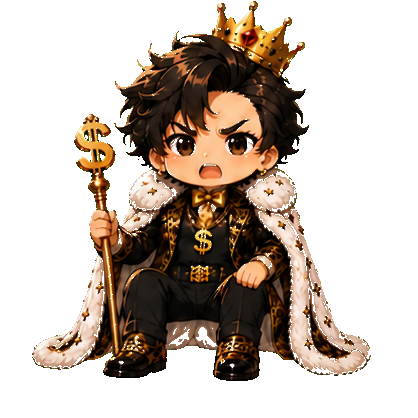
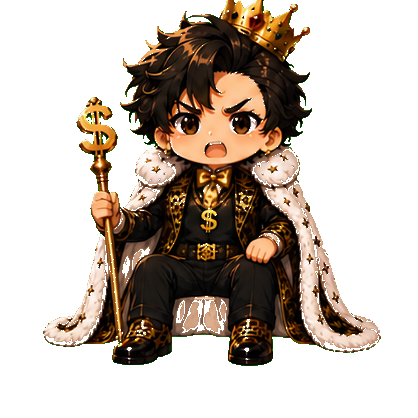
fix: refine daifugo throne presentation

diff --git a/artifacts/inmu-bank/src/pages/pet-page.tsx b/artifacts/inmu-bank/src/pages/pet-page.tsx
@@ -351,7 +351,9 @@ function PetRoom({
   return (
     <section className="relative h-[570px] overflow-hidden rounded-lg border border-fuchsia-400/25 bg-[#080611] shadow-[0_0_46px_rgba(168,85,247,.16)] sm:h-[650px]">
       <div className="absolute inset-0 bg-[linear-gradient(180deg,#100b20_0%,#171026_55%,#0b0811_100%)]" />
-      <div className="absolute inset-x-[7%] top-0 h-[61%] border-x border-violet-300/5 opacity-80 [background-image:linear-gradient(rgba(255,255,255,.025)_1px,transparent_1px),linear-gradient(90deg,rgba(255,255,255,.02)_1px,transparent_1px)] [background-size:42px_42px]" />
+      {roomTheme !== 'royal' && (
+        <div className="absolute inset-x-[7%] top-0 h-[61%] border-x border-violet-300/5 opacity-80 [background-image:linear-gradient(rgba(255,255,255,.025)_1px,transparent_1px),linear-gradient(90deg,rgba(255,255,255,.02)_1px,transparent_1px)] [background-size:42px_42px]" />
+      )}
       <div className="absolute bottom-[39%] left-0 top-0 w-[8%] bg-gradient-to-r from-black/55 to-violet-950/10 [clip-path:polygon(0_0,100%_7%,100%_100%,0_100%)]" />
       <div className="absolute bottom-[39%] right-0 top-0 w-[8%] bg-gradient-to-l from-black/55 to-violet-950/10 [clip-path:polygon(0_7%,100%_0,100%_100%,0_100%)]" />
       <div className="absolute inset-x-0 bottom-[38.5%] h-2 border-y border-violet-300/10 bg-[#23142d] shadow-[0_2px_9px_rgba(0,0,0,.7)]" />
@@ -360,12 +362,14 @@ function PetRoom({
         <div className="absolute inset-x-[18%] bottom-0 top-[8%] rounded-[50%] border border-fuchsia-400/15 bg-[radial-gradient(ellipse,rgba(126,34,206,.24),rgba(30,18,40,.45)_48%,transparent_70%)] shadow-[inset_0_0_28px_rgba(192,38,211,.08)]" />
       </div>
 
-      <div className="absolute left-4 top-28 h-40 w-28 overflow-hidden rounded-t-[48px] border-2 border-violet-300/15 bg-[#060917] shadow-[inset_0_0_24px_rgba(56,189,248,.1),8px_8px_18px_rgba(0,0,0,.35)] sm:left-8 sm:w-36">
-        <div className="absolute inset-x-0 top-1/2 h-px bg-violet-300/15" />
-        <div className="absolute inset-y-0 left-1/2 w-px bg-violet-300/15" />
-        <div className="absolute bottom-3 left-3 h-9 w-1 bg-fuchsia-400/40 shadow-[12px_-15px_0_rgba(34,211,238,.35),25px_4px_0_rgba(251,191,36,.35),42px_-24px_0_rgba(217,70,239,.3),58px_-3px_0_rgba(96,165,250,.35),74px_-18px_0_rgba(244,114,182,.3)]" />
-        <div className="absolute inset-y-0 right-0 w-4 bg-gradient-to-l from-violet-300/10 to-transparent" />
-      </div>
+      {roomTheme !== 'royal' && (
+        <div className="absolute left-4 top-28 h-40 w-28 overflow-hidden rounded-t-[48px] border-2 border-violet-300/15 bg-[#060917] shadow-[inset_0_0_24px_rgba(56,189,248,.1),8px_8px_18px_rgba(0,0,0,.35)] sm:left-8 sm:w-36">
+          <div className="absolute inset-x-0 top-1/2 h-px bg-violet-300/15" />
+          <div className="absolute inset-y-0 left-1/2 w-px bg-violet-300/15" />
+          <div className="absolute bottom-3 left-3 h-9 w-1 bg-fuchsia-400/40 shadow-[12px_-15px_0_rgba(34,211,238,.35),25px_4px_0_rgba(251,191,36,.35),42px_-24px_0_rgba(217,70,239,.3),58px_-3px_0_rgba(96,165,250,.35),74px_-18px_0_rgba(244,114,182,.3)]" />
+          <div className="absolute inset-y-0 right-0 w-4 bg-gradient-to-l from-violet-300/10 to-transparent" />
+        </div>
+      )}
 
       <div className="absolute left-1/2 top-0 h-16 w-px -translate-x-1/2 bg-violet-200/20" />
       <div className="absolute left-1/2 top-14 h-5 w-24 -translate-x-1/2 rounded-[50%] bg-amber-100/80 shadow-[0_10px_40px_15px_rgba(251,191,36,.17),0_3px_4px_rgba(0,0,0,.6)]" />
